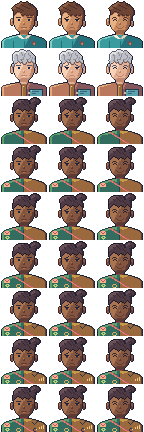
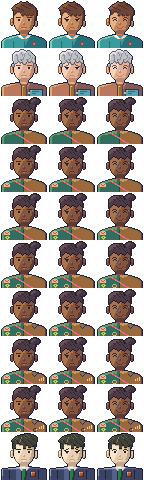
feat(art): approve Vale extra sets and portrait

diff --git a/art-direction/portraits/portrait_vale.py b/art-direction/portraits/portrait_vale.py
@@ -1,0 +1,86 @@
+"""Vale portraits, 48x48 logical px, three expressions.
+
+Status: Candidate, pending director review. Spec: PORTRAITS_SPEC.md, rules: PORTRAIT_RULES.md.
+Every key is a key of vale_sprites.PAL (hair ABCD graphite, skin klmn ivory, suit pqrs, shirt wxy,
+tie tuv, copper badge bcde). No extra steps. The hair keeps the sprite's cowlick, skin-coloured side
+part, uneven fringe and ears; the shoulders are square, as on the sprite.
+Ruler:  0123456789012345 0123456789012345 0123456789012345  (the axis falls between 23|24)
+"""
+import os
+import sys
+
+HERE = os.path.dirname(os.path.abspath(__file__))
+sys.path.insert(0, HERE)
+sys.path.insert(0, os.path.join(HERE, "..", "cast"))
+sys.path.insert(0, os.path.join(HERE, "..", "gate1"))
+import vale_sprites as spr  # noqa: E402  (the world sprite owns the ramps)
+import portrait_template as T  # noqa: E402
+
+PAL = dict(spr.PAL)
+SLOTS = spr.SLOTS
+EXTRA = {}          # portrait-only keys {key: {"hex", "ramp", "why"}}; none
+BROW = "B"          # brows use the hair's second-darkest step: the graphite hair is far darker than the skin
+HAIR_SKIN_SEPARATED = False   # graphite hair is 29 L* darker than the skin fill: no equal-luminance contact
+TILT = {"neutral": [], "concerned": [(0, 10, -1)], "pleased": [(0, 10, 1)]}   # the crown tilts; the fringe (rows 11-17) stays put
+# Vale's pleased is restrained, an almost-smile: the kit's closed eyes and wide smile are replaced by the
+# neutral open eyes and a 1 px deep mouth with the corners barely lifted (stamp keys: s/t/u are skin steps).
+STAMPS = {"pleased": [
+    (19, 17, [".oo.", "soos"]), (19, 27, [".oo.", "soos"]),
+    (26, 20, ["tttttttt", "tttttttt", "tttttttt"]),
+    (26, 21, ["u"]), (26, 26, ["u"]), (27, 22, ["uuuu"]), (28, 23, ["ss"]),
+]}
+SPRITE = spr        # world sprite module, used by the review sheet
+
+BASE = T.parse([
+    "................ ................ ................",
+    "................ ........AAAAooo. ................",
+    "................ ....AAAACCDCCCCo oo..............",
+    "................ .AAACCCCCCCDCCCC CCoo............",
+    "...............A ADCCCCCCDBCCDCCB CCCCo...........",
+    "..............AD DCCCCkCCCDCCCDCC CCCCCo..........",
+    ".............ADD CDCCBkCCCCDCCCCC BCCCCo..........",
+    "............ADCB DCCCkBCCCCCBCCCC CBCCCo..........",
+    "...........ADCCD BCCCkCBCCCCCBCCC CCBCCo..........",
+    "...........ACCCC CBCCkCCBCCCCCBCC CCCBCo..........",
+    "............ACCC CCBkCCCCBCCCCCBC CCCCo...........",
+    "............ABCC CAABCCCCCBCCCCCB CCCCo...........",
+    "............ACBC lllCBCCCCCBCCCCC BCCBo...........",
+    "............ACCB nnnllllCCCAACCCC CBBBo...........",
+    "............ACCC nnnnnnnCCCllCCCC AACBo...........",
+    "............ACCC nnnnnnnCCCmmAAAl llBo............",
+    "............ACAA nnnnnnnAAAmmlllm llAo............",
+    ".............oll nnnnnnnlllmmmmmm llo.............",
+    "...........kkonn nnnnnnnmmmmmmmmm lloooo..........",
+    "..........knmonn nnnnnnmmmmmmmmmm llolmo..........",
+    "..........knmonn nnnnnnmmmmmmmmmm llolmo..........",
+    "..........knlonn nnnnnmmmmmmmmmml llommo..........",
+    "..........kmlonn nnnnnmmmmmmmmmml llolmo..........",
+    "..........kmmonn nnnnmmmmmmmmmmml llolmo..........",
+    "..........kmmknn nnnnmmmmmmmmmmml llomlo..........",
+    "...........oo.on nnnmmmmmmmmmmmll loomlo..........",
+    "..............on nnnmmmmmmmmmmmll lo.oo...........",
+    "...............k nnmmmmmmmmmmmlll o...............",
+    "...............k nnmmmmmmmmmmmmll o...............",
+    "................ kmmmmmmmmmmmmllo ................",
+    "................ .kmmmlllllllllo. ................",
+    "................ ..ollllllllllo.. ................",
+    "................ ...ollllllllo... ................",
+    "................ ...ollllllllo... ................",
+    "................ oooommmmmmlloooo ................",
+    "........oooooooo sswxxxyyyxxxxwrr oooooooo........",
+    "..oooooossssssss ssswxxxxxxxxwrrr rrrrrrrroooooo..",
+    ".osrrrrrrrrrrrrr rrrrwxvuutxwqqqq qqqqqqqqqqqqqqo.",
+    ".osqqqqqqoqqqqqq rrrrrwvuutwqqqqq qqqqqqoqqqqqqqo.",
+    ".osqqqqqqoqqqqqq rrrrrpuuutpqqqqq qqqqqqoqqqqqqqo.",
+    ".osqqqqqqoqqqqqq rrrrrpuuutpqqqpe dddpqqoqqqqqqqo.",
+    ".osqqqqqqoqqqqqq rrrrrpuuutpqqqpd cccpqqoqqqqqqqo.",
+    ".osqqqqqqoqqqqqq rrrrrpuuutpqqqpd cccpqqoqqqqqqqo.",
+    ".osqqqqqqoqqqqqq rrrrrpuuutpqqqpc ccbpqqoqqqqqqqo.",
+    ".orqqqqqqoqqqqqq rrrrrpuuutpqqqpb bbbpqqoqqqqqqqo.",
+    ".orqqqqqqoqqqqqq rrrrrpuutpqqqqqq qqqqqqoqqqqqqqo.",
+    ".orqqqqqqoqqqqqq rrrrrpuutpqqqqqq qqqqqqoqqqqqqqo.",
+    ".orqqqqqqqqqqqqq rrrrrpuutpqqqqqq qqqqqqqqqqqqqqo.",
+]) 
+
+EXPRESSIONS = {e: T.compose(BASE, e, SLOTS["skin"], BROW, STAMPS.get(e, ()), TILT.get(e),
+                            SLOTS["hair"] if HAIR_SKIN_SEPARATED else None) for e in T.KIT}

diff --git a/art-direction/cast/vale_sprites.py b/art-direction/cast/vale_sprites.py
@@ -175,3 +175,79 @@ WALK = {
     "e": walk(E, SIDE_LEGS),
     "w": walk(W, [[r[::-1] for r in lg] for lg in SIDE_LEGS]),
 }
+
+
+# --- Extra animation sets (tasks 8.1-8.2, candidate) ----------------------------------------------
+# Same format as the Engineer's (engineer_sprites.EXTRA): the approved idle frames plus hand-placed
+# stamps. IDLE and WALK above are never edited. Vale stays stiff: arms stay at the sides except where
+# a set needs them, and the head moves in whole 1 px steps.
+stamp, stamps, dip, tilt = eng.stamp, eng.stamps, eng.dip, eng.tilt
+
+# The audit: a pale sheet with a dark rim and one copper clip (the Executive copper, never the marker).
+AUDIT5 = ["oocoo", "owwwo", "oxxxo", "ooooo"]                       # 5x4, held low: copper clip, text line
+AUDIT6 = ["oocooo", "owwwwo", "oxxxxo", "owwwwo", "oooooo"]          # 6x5, held out: nearer the player
+AUDIT_BACK = ["oooo", "owwo", "owwo", "oooo"]                        # N: the back of the sheet
+
+
+def sag(frame):
+    """First softening step: the shoulders drop 1 px. The hard top corners of row 10 are cut, so the
+    shoulder line steps down to a chamfer. Torso and legs stay put."""
+    row = list(frame[10])
+    cols = [i for i, ch in enumerate(row) if ch != "."]
+    a, b = cols[0], cols[-1]
+    row[a], row[b] = ".", "."
+    row[a + 1], row[b - 1] = "o", "o"
+    return frame[:10] + ["".join(row)] + frame[11:]
+
+
+# Facial stamps per facing: (level brow, mouth corners). Eyes are the sprite's single ink pixels, so the
+# stern look is a brow pixel on the forehead row above them and mouth corners that drop onto the chin.
+FROWN = {"s": [(6, 9, ["B"]), (9, 6, ["k"]), (9, 9, ["k"])],
+         "e": [(6, 9, ["BB"]), (9, 9, ["k"])],
+         "w": [(6, 5, ["BB"]), (9, 6, ["k"])]}
+
+
+def _extra():
+    s0, n0, e0, w0 = S, N, E, W
+    # ---- 8.1 interact: offering or receiving the audit (reach, then hold it out; it grows: it is nearer) ----
+    # S: the sheet is carried at the wearer's right (screen-left), the hand grips its lower edge.
+    s_i0 = stamps(s0, (0, 12, AUDIT5), (2, 16, ["nm"]))
+    s_i1 = stamps(s0, (0, 11, AUDIT6), (1, 16, ["nm"]), (0, 16, ["o"]))
+    # E: held out toward the facing, hand beside it.
+    e_i0 = stamps(e0, (11, 12, AUDIT5), (10, 16, ["n"]))
+    e_i1 = stamps(e0, (10, 11, AUDIT6), (9, 16, ["nm"]))
+    # W: the same toward the left.
+    w_i0 = stamps(w0, (0, 12, AUDIT5), (5, 16, ["n"]))
+    w_i1 = stamps(w0, (0, 11, AUDIT6), (6, 16, ["nm"]))
+    # N: the back of the sheet shows past the shoulder.
+    n_i0 = stamps(n0, (0, 12, AUDIT_BACK))
+    n_i1 = stamps(n0, (0, 11, AUDIT_BACK), (0, 15, ["oooo"]))
+    interact = {"s": [s_i0, s_i1], "n": [n_i0, n_i1], "e": [e_i0, e_i1], "w": [w_i0, w_i1]}
+
+    # ---- 8.2 reaction: displeased (stiff). The head bows a notch, the brow furrows and the corners of the
+    # mouth drop; then the fists clench (hands darken to the skin shadow) and the whole figure holds. ---------
+    def fists(f):
+        return stamps(f, (2, 16, ["lk"]), (12, 16, ["kl"]))
+    displeased = {}
+    for fac, g in (("s", s0), ("e", e0), ("w", w0)):
+        d0 = stamps(g, *FROWN[fac])
+        d1 = dip(d0)
+        d2 = lower(fists(d1)) if fac == "s" else lower(d1)
+        displeased[fac] = [d0, d1, d2]
+    displeased["n"] = [n0, dip(n0), lower(dip(n0))]
+
+    # ---- 8.2 reaction: reconsidering (the first softening). The head tilts a notch, then the shoulders drop 1 px
+    # and it settles: the softened silhouette of repair 1. -------------------------------------------------------
+    reconsider = {}
+    for fac, g, dx in (("s", s0, -1), ("n", n0, 1), ("e", e0, -1), ("w", w0, 1)):
+        r0 = tilt(g, dx)
+        r1 = sag(r0)
+        r2 = lower(sag(g))
+        reconsider[fac] = [r0, r1, r2]
+    return {"interact": interact, "react_displeased": displeased, "react_reconsidering": reconsider}
+
+
+EXTRA = _extra()
+EXTRA_MS = {"interact": 250, "react_displeased": 300, "react_reconsidering": 300}
+EXTRA_ASYMMETRIC = {"interact"}
+EXTRA_MODE = {"interact": "once", "react_displeased": "once", "react_reconsidering": "once"}  # play, then hold the last frame

diff --git a/art-direction/portraits/build_portraits.py b/art-direction/portraits/build_portraits.py
@@ -18,11 +18,14 @@ for sub in ("portraits", "gate1", "cast", "scale-test"):
     sys.path.insert(0, os.path.join(HERE, "..", sub))
 import build_scale_test as bst  # noqa: E402
 import portrait_engineer  # noqa: E402
+import portrait_hal  # noqa: E402
 import portrait_ivo  # noqa: E402
 import portrait_mira  # noqa: E402
+import portrait_vale  # noqa: E402
 import portrait_template as T  # noqa: E402
 
-CHARACTERS = [("engineer", portrait_engineer), ("ivo", portrait_ivo), ("mira", portrait_mira)]
+CHARACTERS = [("engineer", portrait_engineer), ("ivo", portrait_ivo), ("mira", portrait_mira),
+              ("vale", portrait_vale), ("hal", portrait_hal)]
 EXPRESSIONS = list(T.KIT)
 ZOOM = 4          # the world's zoom on 1366x768; portraits are shown at the same factor
 BG = "#151C2B"
@@ -211,7 +214,7 @@ def build_sheet():
     sw, sh = 16 * z, 24 * z
     cell = pw + 24
     W = max(24 + 140 + 130 + 3 * cell, 1000)
-    H = 70 + 3 * (pw + 110)
+    H = 70 + len(CHARACTERS) * (pw + 110)
     sheet = Image.new("RGB", (W, H), BG)
     d = ImageDraw.Draw(sheet)
     d.text((24, 16), "Portraits beside the world sprite · x4 · every portrait key is a key of the sprite's PAL",
@@ -239,6 +242,7 @@ def build_sheet():
 def build_atlas():
     rows = [("engineer", portrait_engineer, 0), ("ivo", portrait_ivo, 0), ("mira", portrait_mira, 0)]
     rows += [(f"mira_patch{k}", portrait_mira, k) for k in range(1, 7)]
+    rows += [("vale", portrait_vale, 0), ("hal", portrait_hal, 0)]
     atlas = Image.new("RGBA", (48 * len(EXPRESSIONS), 48 * len(rows)), (0, 0, 0, 0))
     entries = {}
     for r, (name, mod, k) in enumerate(rows):

diff --git a/art-direction/portraits/check_portraits.py b/art-direction/portraits/check_portraits.py
@@ -14,8 +14,10 @@ HERE = os.path.dirname(os.path.abspath(__file__))
 for sub in ("portraits", "gate1", "cast"):
     sys.path.insert(0, os.path.join(HERE, "..", sub))
 import portrait_engineer  # noqa: E402
+import portrait_hal  # noqa: E402
 import portrait_ivo  # noqa: E402
 import portrait_mira  # noqa: E402
+import portrait_vale  # noqa: E402
 import portrait_template as T  # noqa: E402
 
 MARKERS = {"#19AFA2", "#EC776D", "#9876D5", "#E6B750"}
@@ -126,7 +128,7 @@ def diff(a, b):
     return sum(x != y for ra, rb in zip(a, b) for x, y in zip(ra, rb))
 
 
-for cname, mod in (("engineer", portrait_engineer), ("ivo", portrait_ivo), ("mira", portrait_mira)):
+for cname, mod in (("engineer", portrait_engineer), ("ivo", portrait_ivo), ("mira", portrait_mira), ("vale", portrait_vale), ("hal", portrait_hal)):
     # extras: recorded, at most one per ramp
     per_ramp = {}
     for key, info in mod.EXTRA.items():

diff --git a/art-direction/portraits/PORTRAITS_SPEC.md b/art-direction/portraits/PORTRAITS_SPEC.md
@@ -67,3 +67,30 @@ Coordinator review (to be completed by the director):
 - [x] Ramps match the sprite in `portraits-sheet.png`
 
 Review history: one self-review pass of three cycles. Cycle 1 failed on a helmet-like Engineer fringe and a brick pattern of strand dashes (both redrawn as swept tufts and continuous strand lines), a flat Ivo hairline (redrawn as a toothed fringe), tilt seams that exposed tufts or put a darkest step inside hair (the tilt now starts at row 0 and the hair/skin separation runs after the tilt), and an ear seam in a darkest-step key (now ink). Cycle 2 passed the checker. Director review then required Ivo's crown to be rebuilt from strand clusters because the first version read as a smooth mound; it was, and the checker and sheet were rerun.
+
+## Vale (task 9.3, approved by the director 2026-10-02)
+
+**Status:** Candidate, pending director review. `portrait_vale.py` is built on the same template and checked by the same `check_portraits.py` (30 grids, 0 failures). `build_portraits.py` adds Vale to `portraits-sheet.png` (fourth row) and to `portraits-atlas.png`/`.json` (row `vale`, appended after the Mira patch rows so no existing row moves). Sources: `design/characters/vale.md`, `cast/vale_sprites.py`, `cast/VALE_SPEC.md`.
+
+| | Vale |
+| --- | --- |
+| Hair | Graphite `ABCD`: the sprite's cowlick (a tuft above the crown, standing out of a lower crown), the 1 px skin-coloured side part (`k`) left of centre, diagonal strand lines sweeping to the right, a lit `D` band on the upper left, and an uneven fringe: a long centre lock, a short lock at the right, a high left lock, and temple points. The ears show below the hair. |
+| Skin | `klmn` as the sprite (pale ivory) |
+| Clothing | Navy suit `pqrs` with the hard, square shoulder line (full width on row 37, not 40–41), a lit `s` edge on the left shoulder and sleeve, `o` seams between sleeves and torso, and a cool-white shirt V `wxy` |
+| Accent | Green tie `tuv` (the knot's `v` glint on 1 px) and the copper badge `bcde` on screen-right (4×5, one `e` glint), as the sprite |
+| Identity at 1× | Square shoulders, dark swept hair with a part, green tie, copper badge |
+
+### Vale decisions
+
+15. **Hair matches the sprite's idea, not its pixels.** The sprite's three features survive at ×2.4: the cowlick, the side part and the uneven fringe. The 3× larger head allows strand lines, which carry the "not a helmet" read where the narrow graphite ramp gives little contrast. The fringe stays put under the tilt (the tilt covers rows 0–10, as Ivo's covers 0–11).
+16. **Brows use `B`** (graphite shadow), because the lightest hair step is much darker than the skin and `A` would read as black bars.
+17. **Square shoulders.** The shoulder line drops from the neck to full width in two steps (rows 35–37) instead of sloping to row 40–41. The rules allow a per-character override (Ivo, row 39). Vale is the only cast member with flat shoulders.
+18. **Seams are ink.** The sleeve seams use `#202337`, not the suit's darkest step: an `p` line inside one ramp breaks the contour-only rule (as for Mira's sleeve). `p` appears only on the lapel edges, beside the tie and the badge.
+19. **Pleased is restrained: an almost-smile.** The kit's closed eyes and wide smile would read as warm and open, which is wrong for Vale's arc ("starts rigid, softens"). The `pleased` portrait keeps the neutral open eyes and the arched brows, with a 4 px mouth whose corners rise 1 px (`STAMPS["pleased"]` in `portrait_vale.py`). It tilts right like the other characters. The three expressions differ by well over 40 px.
+20. **Mapping to the brief.** vale.md names composed (rigid), unsettled (evidence shown) and resolved (releases the audit): neutral is composed, concerned is unsettled, pleased is resolved, shown as the almost-smile.
+21. **No extra palette steps.** Every key is a key of `vale_sprites.PAL` with the same hex; `EXTRA` is empty. `HAIR_SKIN_SEPARATED` is off for the same reason as on the sprite (the graphite hair is 29 L* darker than the skin).
+
+Review: `check_portraits.py` ended at 30 portraits checked, 0 failures. Cycles: the first version had a flat fringe line and a light, blocky hair mass, and failed the row-0 rule, the crop-row outline (side outlines on columns 2 and 45 instead of 1 and 46), the darkest-step rule (a `p` sleeve seam) and the open silhouette under the tilt; the hair was then rebuilt with strand lines and a toothed fringe, and the tilt boundary was moved to row 10 with matching edge columns on rows 10 and 11. Coordinator review (to be completed by the director):
+- [ ] Vale reads as the same person as the sprite at ×4 (hair, tie, badge, shoulders)
+- [ ] Hair does not read as a helmet
+- [ ] Neutral, concerned and the almost-smile are distinguishable at ×4

diff --git a/art-direction/cast/VALE_SPEC.md b/art-direction/cast/VALE_SPEC.md
@@ -70,3 +70,21 @@ Coordinator review (to be ticked by the director after looking at `vale-sheet.pn
 - [x] The suit separates from the Executive wall panel, the glass bay, the alcove wall and the navy seating, and carries the silhouette on the pale floor
 - [x] The rigid walk reads as stiff and still-armed, and the side stride stays clear of the frame edge
 - [x] Gold stays small, with no teal-hued or violet clothing
+
+## Extra animation sets (approved by the director 2026-10-02)
+
+Tasks 8.1 (interact) and 8.2 (reactions). Same format as the Engineer, Ivo and Mira: `EXTRA`, `EXTRA_MS`, `EXTRA_MODE` and `EXTRA_ASYMMETRIC` in `vale_sprites.py`, built from the approved idle frames plus hand-placed stamps. `IDLE`, `WALK` and `PAL` are unchanged (dumped and diffed before and after). `build_cast.py vale` adds `vale-extra.gif`, the extra rows of `vale-atlas.png`/`.json` (rows 8–19) and the extra frames on `vale-sheet.png`. `check_gate1.py vale_sprites`: 56 frames checked (24 base + 32 extra), 0 failures.
+
+| Set | Facings | Frames | Timing | Mode |
+| --- | --- | --- | --- | --- |
+| `interact` | S N E W | 2 | 250 ms | once, hold last |
+| `react_displeased` | S N E W | 3 | 300 ms | once, hold last |
+| `react_reconsidering` | S N E W | 3 | 300 ms | once, hold last |
+
+### Extra decisions
+
+15. **Interact: the audit.** vale.md says "receiving or releasing the audit". Vale carries a 5×4 pale sheet low, then holds a 6×5 sheet out (it grows because it is nearer the player, as Ivo's tablet does). The sheet is a dark rim, alternating `w`/`x` lines read as text, and one `c` copper clip on the top edge. S: at Vale's right (screen-left), the hand grips its lower edge. E and W: held out toward the facing. N: only the back of the sheet shows past the shoulder. The sheet stays inside 16×24, so it uses columns 0–5 on S, W and N. It uses no new key, and `y` stays inside its glint limit. `EXTRA_ASYMMETRIC` includes `interact`.
+16. **Reaction: displeased (stiff).** vale.md's "composed" is the idle, so reaction (a) is the stiff counterpart: the head bows a notch (`dip`), a level brow pixel is added above the eyes, and the mouth corners drop onto the chin. On S the fists clench on the last frame (hands take the skin shadow steps) and the figure settles 1 px (`lower`). The face is the sprite's single ink pixels, so it reads through the brow and mouth, not through eye shape. A 2 px dark furrow was tried and read as an eye patch; it was dropped.
+17. **Reaction: reconsidering (the first softening).** vale.md's reaction (b) is "unsettled on seeing raw evidence". It is the first step of the arc, so it plays the first softening state's change: the head tilts 1 px, the hard corners of the shoulder line are cut (`sag`: the shoulders drop 1 px), and the figure settles. The last frame is the state-1 silhouette, so the same `sag` can be applied to the idle frames when the engine switches to repair 1.
+18. **Held frame.** Both reactions end on a frame that is a valid resting pose; the engine holds it until the dialogue closes.
+19. **Open.** The state 2 and 3 poses (arms relax, weight on one leg, open stance) and the portrait expressions are still to do. N has no face, so its reactions only move the head and shoulders.

diff --git a/README.md b/README.md
@@ -49,6 +49,7 @@ When documents disagree, the owner below wins. Fix the other document instead of
 - **Ada** idle ×4 and walk ×4 **approved by the director 2026-10-02** (`art-direction/cast/ADA_SPEC.md`). Lantern ruling: both. A baked 1 px rim in `#F9D79A` lights the contour beside the lantern, and the Night Shift renderer rim lights the upper-left contour. The renderer rim pass recolours only `#202337` pixels, so nothing is lit twice. Ada keeps a plain `#202337` outline so the renderer rim can reach it. She wears a moss-olive coat and holds a 5×6 lantern in Night Shift accent steps. Revised once: her eyes now sit in sockets of her lightest skin step, and her warm-white crop got three tufts so it doesn't read as a cap. On deep skin the sprite eyes stay subtle by design; expression lives in her portrait.
 - **Hal** idle ×4 and walk ×4 **approved by the director 2026-10-02** (`art-direction/cast/HAL_SPEC.md`). He wears a steel-cobalt vest (hue 219–225°, outside the teal band) with warm-stone sleeves and ink gloves. His signature prop is an orange tool roll in the Systems accent ramp, tucked under his arm; the stool stays a separate world prop. He has a spiky blond crop, a compact body and no arm swing. Revised once: lit-skin eye sockets, a notched N crown with a tapered nape, and gloves with a cuff line, knuckle and thumb.
 - **Records kit and circular archive desk approved by the director 2026-10-02** (`art-direction/kit/RECORDS_KIT_SPEC.md`). This is the walkable Records composition that `docs/game-design.md` asks for, so it validates the shared-kit pipeline before the other districts. Orientation pieces are recoloured by exact hex swap, and the build fails on any unmapped pixel. New shared pieces (shelving, glass partitions, a terminal desk, cabinets, a light shaft and a sliding file wall) live in `kit/shared_pieces.py`. Wayfinding is in cherry wood, not brass. The desk is split into a rear half and a front arc, so people inside the ring are occluded. The after state changes four things: folder colours return, a light pool appears under the ring, the ledger cross becomes a tick and seal, and the lamps pulse. A BFS over the collision grid confirms a two-cell route; nothing required sits under the keyboard inset, and the open doorway is brighter than the wall beside it.
+- **Vale's extra sets and portrait approved by the director 2026-10-02.** The interact prop is the audit sheet with a copper clip. The reactions are displeased (the stiff counterpart to the idle) and reconsidering (it plays softening state 1). The portrait's pleased expression is a restrained almost-smile with open eyes, because a full closed-eye grin doesn't suit Vale's arc. Tasks 8.1, 8.2 and 9.3 stay open until Noor, Hal and Ada are done.
 
 ## Open decisions
 

diff --git a/art-direction/PRODUCTION_STATUS.md b/art-direction/PRODUCTION_STATUS.md
@@ -40,6 +40,7 @@ This is the living handoff file. Any agent continuing the art work should read t
 | Ada: idle ×4, walk ×4, lantern rim-light ruling | [cast/ADA_SPEC.md](cast/ADA_SPEC.md) | cast/ada_sprites.py | 2026-10-02 (director) |
 | Hal: idle ×4, walk ×4 | [cast/HAL_SPEC.md](cast/HAL_SPEC.md) | cast/hal_sprites.py | 2026-10-02 (director) |
 | Records kit (48 entries), circular archive desk before/after, walkable reference room | [kit/RECORDS_KIT_SPEC.md](kit/RECORDS_KIT_SPEC.md) | kit/shared_pieces.py, kit/records_kit.py | 2026-10-02 (director) |
+| Vale: interact, displeased and reconsidering reactions; 48×48 portrait (neutral, concerned, restrained pleased) | cast/VALE_SPEC.md (Extra sets), portraits/PORTRAITS_SPEC.md (Vale) | EXTRA in cast/vale_sprites.py, portraits/portrait_vale.py | 2026-10-02 (director) |
 
 ## Plan
 
